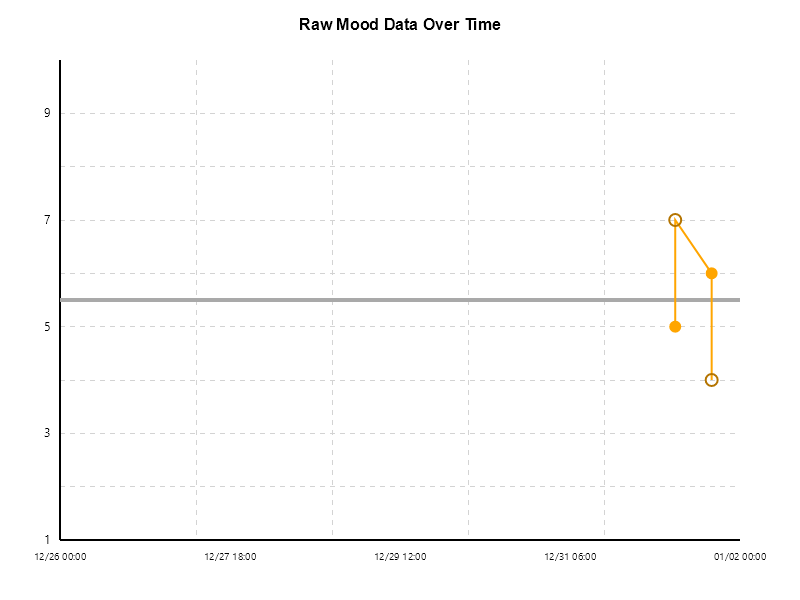
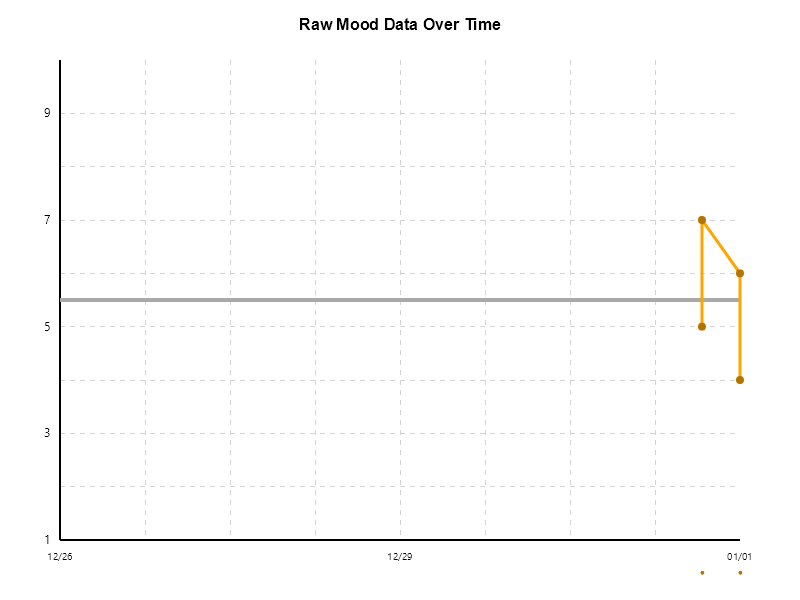
^r - migrate GenerateRawDataGraph_SameTimestampEntries_ShouldMatchApproval test to use SimpleLineGraphService

diff --git a/WorkMood.MauiApp.Tests/Services/LineGraphServiceEdgeCaseTests.cs b/WorkMood.MauiApp.Tests/Services/LineGraphServiceEdgeCaseTests.cs
@@ -128,17 +128,15 @@ public class LineGraphServiceEdgeCaseTests
     public async Task GenerateRawDataGraph_SameTimestampEntries_ShouldMatchApproval()
     {
         // Arrange - Multiple entries with identical timestamps (edge case)
-        var sameTimeEntries = new List<RawMoodDataPoint>
+        var sameTimeEntries = new List<MoodEntry>
         {
-            new(new DateTime(2025, 1, 1, 8, 0, 0), 5, MoodType.StartOfWork, new DateOnly(2025, 1, 1)),
-            new(new DateTime(2025, 1, 1, 8, 0, 0), 7, MoodType.EndOfWork, new DateOnly(2025, 1, 1)), // Same timestamp
-            new(new DateTime(2025, 1, 1, 17, 0, 0), 6, MoodType.StartOfWork, new DateOnly(2025, 1, 1)),
-            new(new DateTime(2025, 1, 1, 17, 0, 0), 4, MoodType.EndOfWork, new DateOnly(2025, 1, 1)) // Same timestamp
+            new MoodEntry{ CreatedAt = new DateTime(2025, 1, 1, 8, 0, 0), StartOfWork = 5, Date = new DateOnly(2025, 1, 1), EndOfWork = 7, LastModified = new DateTime(2025, 1, 1, 8, 0, 0) },
+            new MoodEntry{ CreatedAt = new DateTime(2025, 1, 1, 17, 0, 0), StartOfWork = 6, Date = new DateOnly(2025, 1, 1), EndOfWork = 4, LastModified = new DateTime(2025, 1, 1, 17, 0, 0) }
         };
         var dateRange = new DateRangeInfo(DateRange.Last7Days, new FakeDateShim(new DateOnly(2025, 1, 2)));
 
         // Act
-        var imageBytes = await _lineGraphService.GenerateRawDataGraphAsync(
+        var imageBytes = await _simpleLineGraphService.GenerateRawGraphAsync(
             sameTimeEntries, 
             dateRange, 
             showDataPoints: true, 
